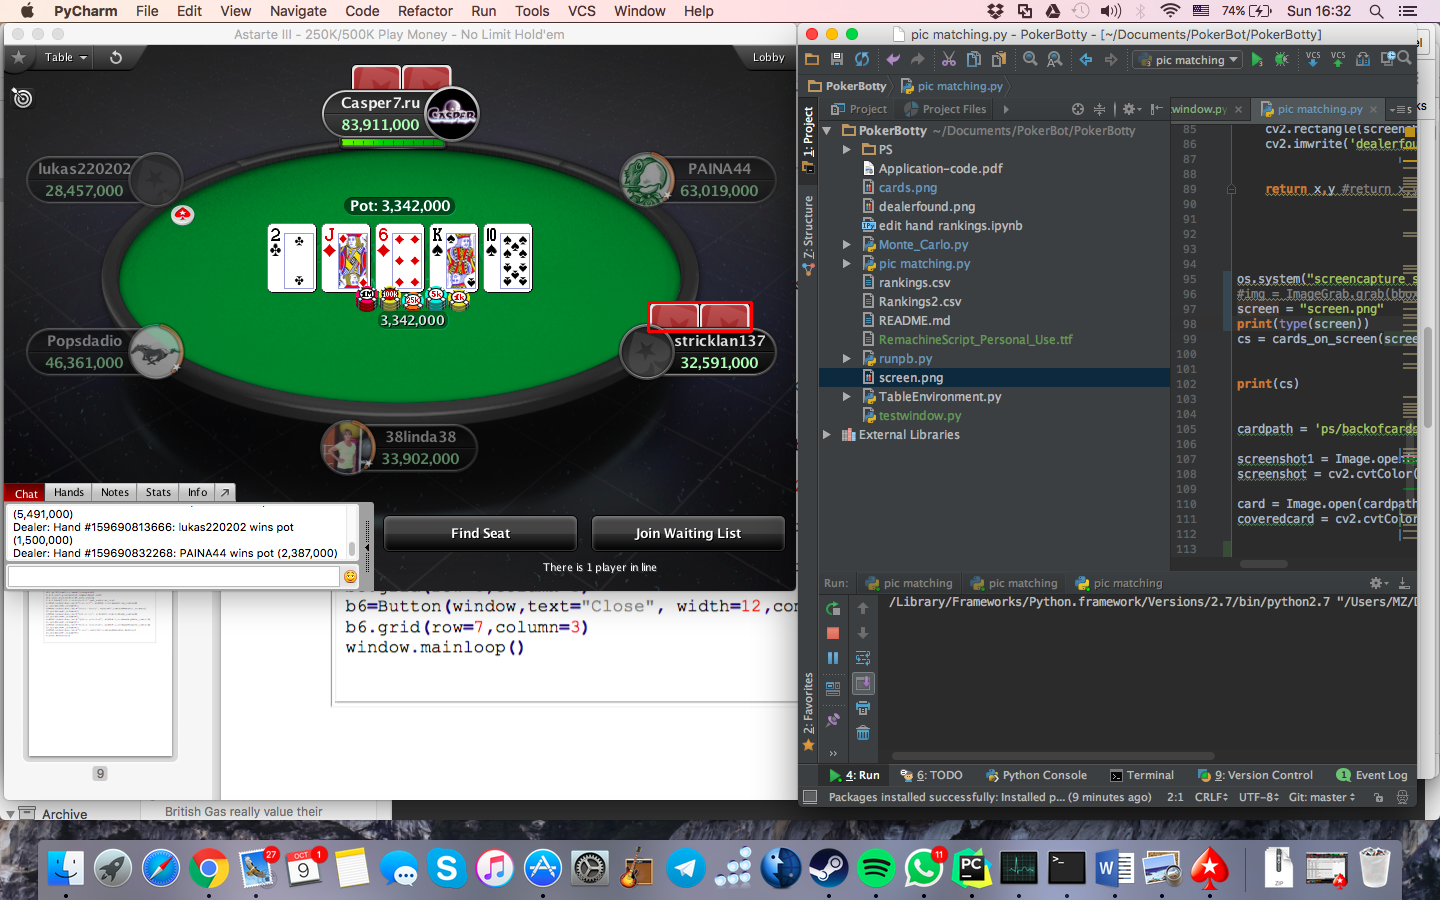
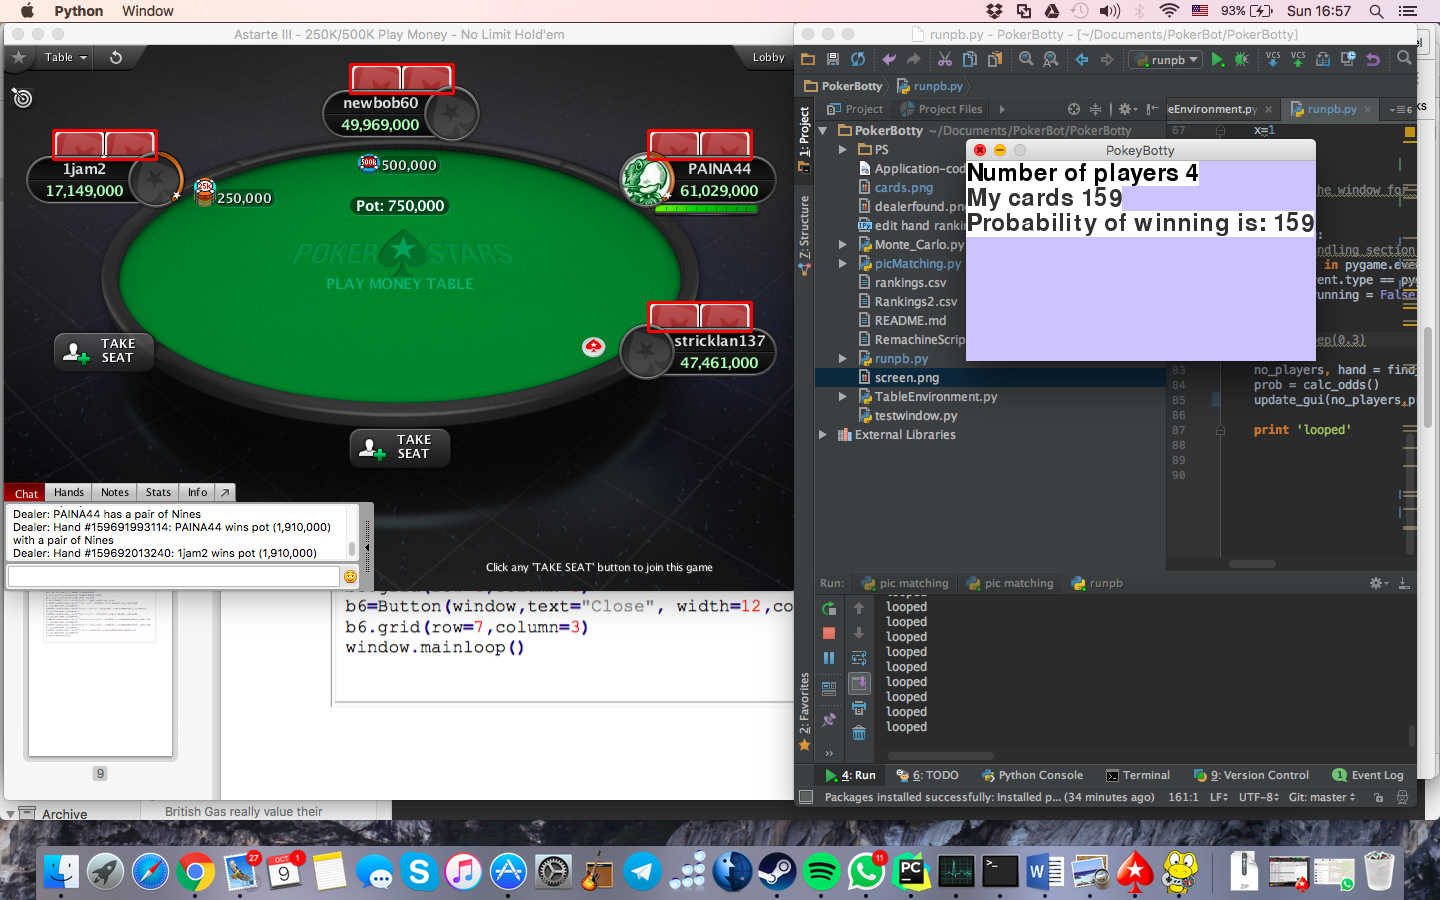
# players works

diff --git a/runpb.py b/runpb.py
@@ -2,13 +2,16 @@ import time
 import pygame
 import os
 import cv2
+from PIL import Image
+import numpy as np
+from picMatching import find_hidden_on_screen
 
 
 def find_stuff():
     no_players = 0
     hand = []
-    """
     os.system("screencapture screen.png")
+    screen = 'screen.png'
     cardpath = 'ps/backofcards2.png'
 
     screenshot1 = Image.open(screen)
@@ -17,16 +20,17 @@ def find_stuff():
     card = Image.open(cardpath)
     coveredcard = cv2.cvtColor(np.array(card), cv2.COLOR_BGR2RGB)
 
-    """
+    no_players = find_hidden_on_screen(coveredcard, screenshot)
+
     return no_players, hand
 
 
-def update_gui(prob):
+def update_gui(no_players, prob):
     #screen.fill(background_colour) #use this if you need to wipe the whole background
     font = pygame.font.Font(None,36)
 
 
-    text1 = font.render("Number of players %s" %x, 1, (0,0,0),(255,255,255))
+    text1 = font.render("Number of players %s" %no_players, 1, (0,0,0),(255,255,255))
     textpos = text1.get_rect()
     screen.blit(text1,textpos)
 
@@ -74,11 +78,11 @@ while running:
             running = False
 
 
-    time.sleep(0.3)
+    #time.sleep(0.3)
     x+=1
     no_players, hand = find_stuff()
     prob = calc_odds()
-    update_gui(prob)
+    update_gui(no_players,prob)
 
     print 'looped'
 

diff --git a/picMatching.py b/picMatching.py
@@ -58,7 +58,7 @@ def cards_on_screen(screenshotpath):
 
 def find_hidden_on_screen(template,screenshot):
     res = cv2.matchTemplate(screenshot, template, cv2.TM_SQDIFF_NORMED)
-    loc = np.where(res <= 0.05)
+    loc = np.where(res <= 0.1)
 
     w, h = template.shape[1],template.shape[0]
 
@@ -90,12 +90,11 @@ def find_dealer(screenpath):
 
 
 
-
+"""
 
 os.system("screencapture screen.png")
 #img = ImageGrab.grab(bbox=(0,0,792,590))
 screen = "screen.png"
-print(type(screen))
 cs = cards_on_screen(screen)
 
 
@@ -118,5 +117,6 @@ t = t2-t1
 print ("number of player is: %s found in %s second" %(x,t))
 
 #dealerx, dealery = find_dealer(screen)
-
+"""
 #print "dealer found at %s %s" %(dealerx,dealery)
+
